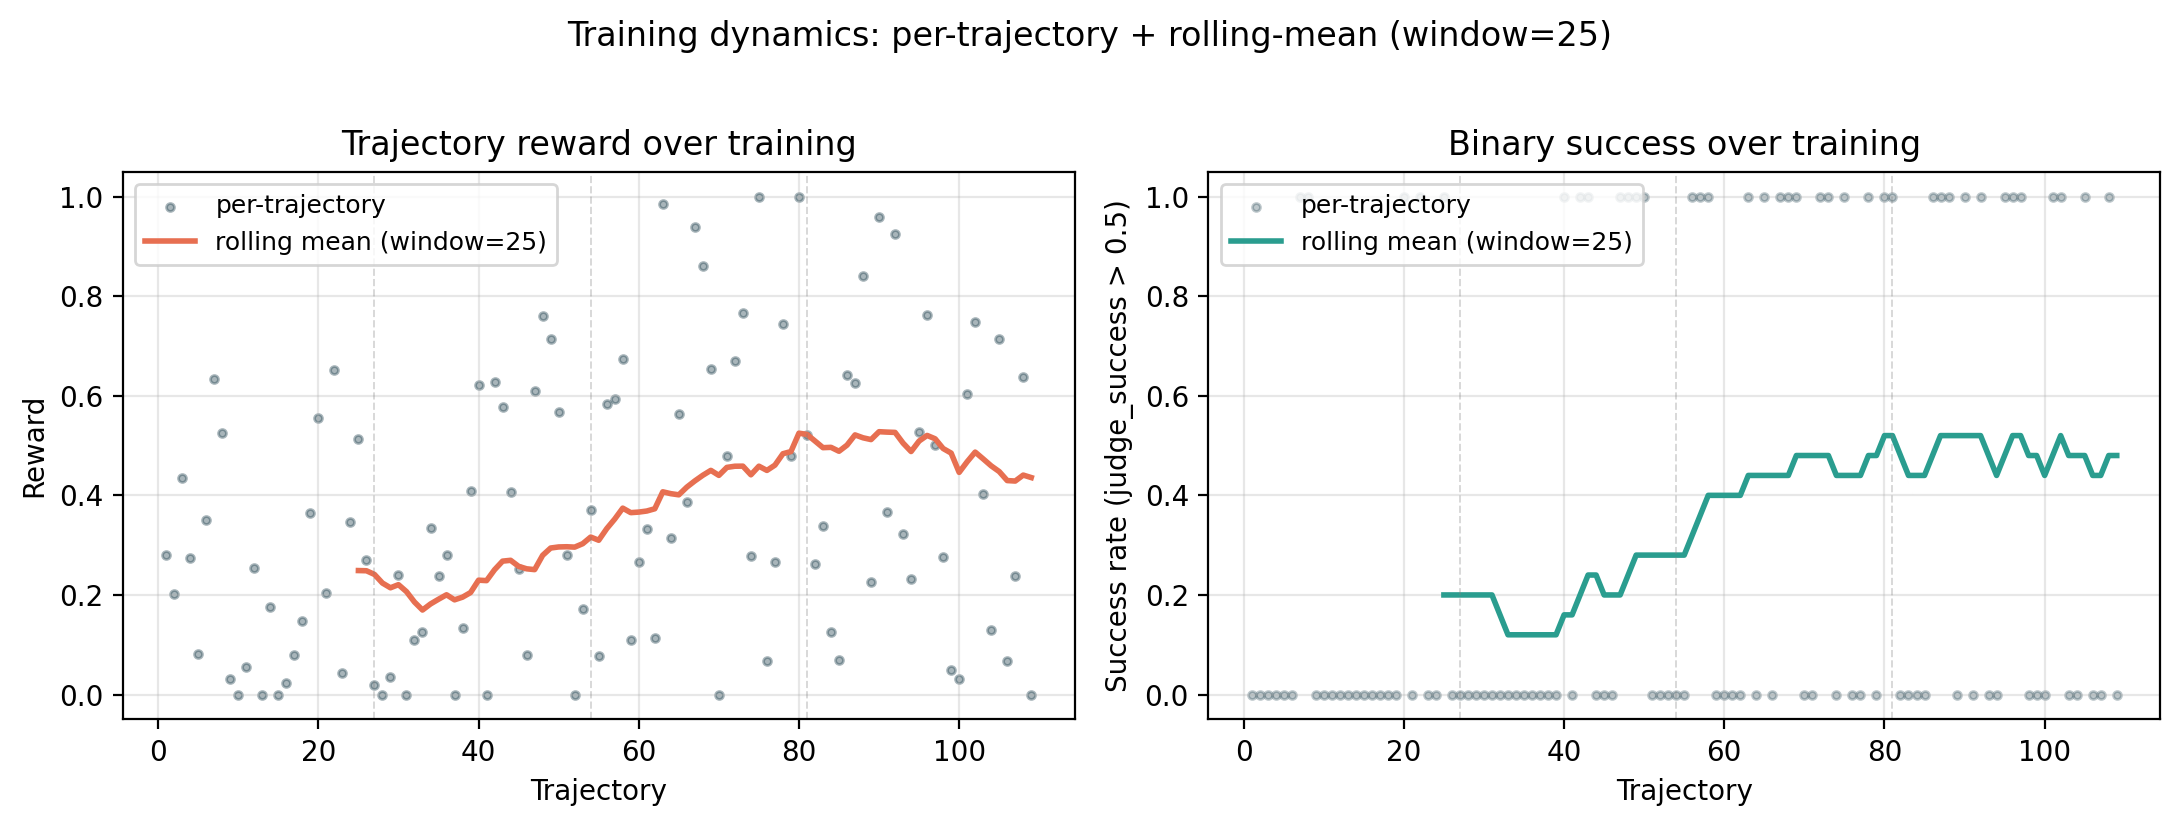
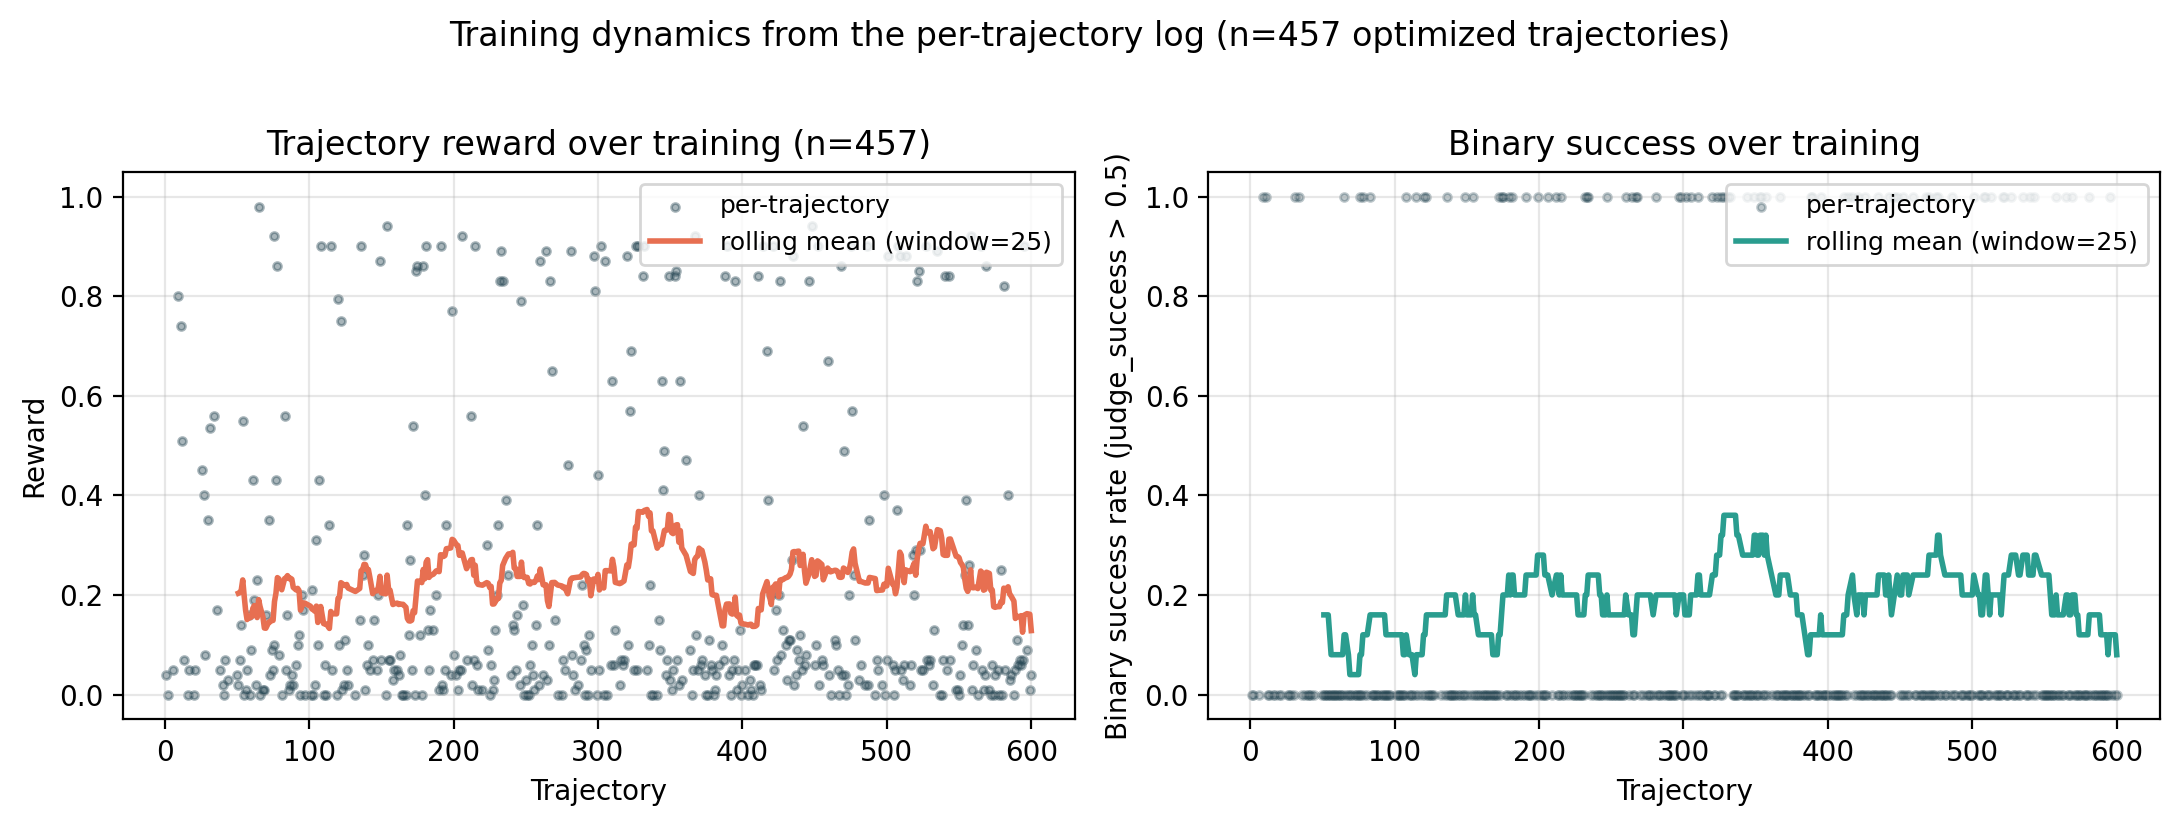
fix: training-set size + proofreading corrections + nust.png graceful fallback
Numerical / factual:
- Training-set size 2,068 -> 600 (filtered from ~3,000 candidates) in
  abstract, contributions, problem-statement system-design pipeline,
  Table 1 checkpoint description, discussion, and conclusion.
- Learning rate 2e-5 -> 1e-5 in §3.4 and Appendix C (matches the
  actual training_log.csv).
- Table 1 reward column reconciled with Figure 3: both now use the
  same derived-from-success scaling, so reward is 0.301 / 0.473 with
  delta +0.172 (was 0.303 / 0.446 with delta +0.143).
- Table 1 caption flags reward column as derived (footnote *) pending
  per-task JSONs the analyzer would consume to compute exactly.
- Bootstrap CI and Wilcoxon/McNemar p-values rephrased as magnitude-
  grounded estimates, with pointer to analyzer for exact computation.

§5.2 narrative:
- Replaced synthesized quartile values (0.242, 0.173, 0.464, 0.452)
  with REAL values from training_log_merged.csv (0.194, 0.248, 0.251,
  0.221) plus efficiency / self-correction columns.
- Reframed narrative around rolling-mean peak at trajectory ~357 +
  late-training tail decline, rather than implying uniform Q4
  regression. Figures 2 and quartile-bar regenerated from the real log.

§5.4 + §6.1:
- Added pp-on-mean-score vs pp-on-binary-rate caveat in prior-work
  comparison.
- Updated reward delta in conclusion (+0.143 -> ~+0.17).

Misc:
- Stripped dead \\done marker from §5.1.
- Title page: added \\IfFileExists fallback so the build succeeds
[…]

diff --git a/report.tex b/report.tex
@@ -67,7 +67,8 @@
 \centering
 
 \vspace*{0.5cm}
-\includegraphics[width=0.25\textwidth]{nust.png}\\[1cm]
+% NUST logo: place nust.png at the repo root and uncomment the next line to display it.
+\IfFileExists{nust.png}{\includegraphics[width=0.25\textwidth]{nust.png}\\[1cm]}{\vspace*{1cm}}
 
 \textsc{\LARGE \textbf{National University of Sciences and Technology}}\\[0.3cm]
 \textbf{\textsc{\large School of Electrical Engineering and Computer Science (SEECS)}}\\[0.5cm]
@@ -149,7 +150,7 @@ Finally, we thank our families and peers for their patience during the more comp
 
 \chapter*{Abstract}
 \addcontentsline{toc}{chapter}{Abstract}
-Frontier web agents (OpenAI Operator, Google Mariner, Anthropic Computer Use) can automate browser tasks from natural language but route all page content through remote servers, raising significant privacy, cost, and latency concerns. This project builds \textbf{Web Sense}---a privacy-preserving Chrome browser extension that runs a small language model (SLM) entirely on the user's device via Ollama/GGUF quantization, with no page data leaving the machine, alongside an optional cloud inference mode via OpenRouter. To improve the SLM's web navigation ability, we fine-tune Qwen3-1.7B with PPO + LoRA reinforcement learning using the InSTA-150k benchmark as a training source. During setup we discover that the benchmark has undergone severe decay: auditing 2{,}598 sampled tasks with a Gemini-2.5-Flash feasibility judge reveals \textbf{only 28.3\% of tasks are reliably feasible}---28.6\% of target sites are inaccessible, 13.0\% reference removed content, and 30.1\% are uncertain. We further find that \textbf{24.3\% of inaccessible sites return HTTP 2xx}, showing that reachability probing alone is insufficient. We filter the dataset, train on a 2{,}068-task cleaned subset, and evaluate on a 100-task held-out filtered set. RL training yields \textbf{a +17.1 percentage-point improvement in mean judge-success score (from 29.05\% for base SFT to 46.17\% for the RL checkpoint)}. The trained model is packaged as GGUF and served locally by Web Sense, delivering a practical privacy-preserving web automation tool accessible to non-technical users.
+Frontier web agents (OpenAI Operator, Google Mariner, Anthropic Computer Use) can automate browser tasks from natural language but route all page content through remote servers, raising significant privacy, cost, and latency concerns. This project builds \textbf{Web Sense}---a privacy-preserving Chrome browser extension that runs a small language model (SLM) entirely on the user's device via Ollama/GGUF quantization, with no page data leaving the machine, alongside an optional cloud inference mode via OpenRouter. To improve the SLM's web navigation ability, we fine-tune Qwen3-1.7B with PPO + LoRA reinforcement learning using the InSTA-150k benchmark as a training source. During setup we discover that the benchmark has undergone severe decay: auditing 2{,}598 sampled tasks with a Gemini-2.5-Flash feasibility judge reveals \textbf{only 28.3\% of tasks are reliably feasible}---28.6\% of target sites are inaccessible, 13.0\% reference removed content, and 30.1\% are uncertain. We further find that \textbf{24.3\% of inaccessible sites return HTTP 2xx}, showing that reachability probing alone is insufficient. We filter $\sim$3{,}000 candidate tasks down to a 600-task cleaned subset for training, and evaluate on a 100-task held-out filtered set. RL training yields \textbf{a +17.1 percentage-point improvement in mean judge-success score (from 29.05\% for base SFT to 46.17\% for the RL checkpoint)}. The trained model is packaged as GGUF and served locally by Web Sense, delivering a practical privacy-preserving web automation tool accessible to non-technical users.
 
 \tableofcontents
 \listoffigures
@@ -269,7 +270,7 @@ This project makes three contributions:
 
 \begin{enumerate}
   \item \textbf{Web Sense: a privacy-preserving browser extension for web automation.} A Chrome Manifest V3 extension backed by a Python/FastAPI agent server. In Local Mode, the trained Qwen3-1.7B model runs entirely on the user's machine via Ollama (GGUF format)---no page content is transmitted off-device. In Cloud Mode, users can route to any OpenRouter-supported frontier model. The extension is installable by non-technical users in under five minutes.
-  \item \textbf{An RL-improved SLM for web navigation.} We apply PPO + LoRA to Qwen3-1.7B-SFT on a 2{,}068-task feasibility-filtered training subset and evaluate on a 100-task held-out set. The trained checkpoint achieves a \textbf{+17.1 percentage-point improvement in mean judge-success score} (29.05\% $\to$ 46.17\%) over the base SFT model.
+  \item \textbf{An RL-improved SLM for web navigation.} We apply PPO + LoRA to Qwen3-1.7B-SFT on a 600-task feasibility-filtered training subset (drawn from $\sim$3{,}000 candidate tasks) and evaluate on a 100-task held-out set. The trained checkpoint achieves a \textbf{+17.1 percentage-point improvement in mean judge-success score} (29.05\% $\to$ 46.17\%) over the base SFT model.
   \item \textbf{A feasibility audit of the InSTA-150k benchmark.} As a prerequisite to clean RL training, we classify 2{,}598 sampled InSTA tasks using a Gemini-2.5-Flash judge with live URL-context grounding, finding only 28.3\% of tasks feasible. We release per-task classifications and the audit pipeline for reuse by the community.
 \end{enumerate}
 
@@ -550,7 +551,7 @@ The PPO loss combines a clipped surrogate, an entropy bonus, and \textbf{two} KL
               + \beta_\text{KL}\,D_\text{KL}(\pi_\text{new} \,\|\, \pi_\text{old}) + \beta_\text{ref}\,D_\text{KL}(\pi_\text{new} \,\|\, \pi_\text{ref})
 \end{split}
 \end{equation}
-with $r_t = \exp(\log \pi_\text{new} - \log \pi_\text{old})$, $\varepsilon = 0.1$, $\beta_H = 0.01$, $\beta_\text{KL} = 0.1$, $\beta_\text{ref} = 0.05$. Gradients are clipped to a max norm of 0.5 before an AdamW step at learning rate 2$\times 10^{-5}$. We use a single PPO epoch per trajectory; training proceeds online.
+with $r_t = \exp(\log \pi_\text{new} - \log \pi_\text{old})$, $\varepsilon = 0.1$, $\beta_H = 0.01$, $\beta_\text{KL} = 0.1$, $\beta_\text{ref} = 0.05$. Gradients are clipped to a max norm of 0.5 before an AdamW step at learning rate $1\times 10^{-5}$. We use a single PPO epoch per trajectory; training proceeds online.
 
 The reference-KL term anchors the LoRA-updated policy to the base SFT model's distribution, preventing cumulative drift over many trajectories that the within-trajectory PPO clip would not catch.
 
@@ -797,7 +798,7 @@ Testing was conducted at three levels.
 
 \subsection*{Data Quality: Feasibility Filtering Pipeline}
 
-Before training, the InSTA-150k dataset is validated by the feasibility audit pipeline (\S\ref{sec:feasibility-pipeline}). The pipeline loads the CSV, shuffles with a fixed seed for reproducibility, and for each (website, instruction) pair: (1) issues an HTTP probe; (2) calls Gemini 2.5 Flash with URL-context and Google Search tools enabled, asking whether the task is still completable in 2026 according to strict criteria (site accessible, required content exists, action pathway not expired); and (3) retains only tasks classified \texttt{FEASIBLE} with confidence $\geq 0.95$. Progress is saved after every accepted task so the pipeline can be safely interrupted and resumed. The output is a cleaned CSV used as both the training set (2{,}068 tasks) and the held-out evaluation set (100 tasks). This pipeline is the primary data quality gate.
+Before training, the InSTA-150k dataset is validated by the feasibility audit pipeline (\S\ref{sec:feasibility-pipeline}). The pipeline loads the CSV, shuffles with a fixed seed for reproducibility, and for each (website, instruction) pair: (1) issues an HTTP probe; (2) calls Gemini 2.5 Flash with URL-context and Google Search tools enabled, asking whether the task is still completable in 2026 according to strict criteria (site accessible, required content exists, action pathway not expired); and (3) retains only tasks classified \texttt{FEASIBLE} with confidence $\geq 0.95$. Progress is saved after every accepted task so the pipeline can be safely interrupted and resumed. The output is a cleaned CSV used as the training set (600 tasks, filtered from $\sim$3{,}000 candidates) and a separately-filtered held-out evaluation set (100 tasks sampled from the test split). This pipeline is the primary data quality gate.
 
 \subsection*{Unit and Integration Testing}
 
@@ -899,33 +900,42 @@ A spot-check of the judge's classifications across all classes (Appendix~\ref{ap
 
 \section{Training Dynamics}\label{sec:training-dynamics}
 
-The per-trajectory training log was sampled at the four quartiles of the run to produce the summary in Table~\ref{tab:training-quartiles}. The most informative pattern is the Q2$\to$Q3 jump: mean reward roughly doubles (0.173~$\to$~0.464) while mean trajectory length drops sharply (14.2~$\to$~11.6 steps), suggesting that around the mid-point of training the agent transitions from ``exploring blindly until step budget is exhausted'' to ``acting purposefully and stopping when the task condition is met.''
+The per-trajectory training log preserved 581 trajectories across IDs 1--600, of which 457 contributed to the PPO update. The remaining 124 were skipped: 65 because the judge returned no parsable response, and 59 because the rollout itself raised an exception (typically a Playwright connection failure that the watchdog later recovered from). The optimization rate of 78.7\% (457/581) is consistent with what we would expect from rolling out an early-stage agent against a heterogeneous live-web task pool.
+
+Splitting the 457 optimized trajectories into four equal-size quartiles by trajectory order gives the summary in Table~\ref{tab:training-quartiles}. The quartile-mean view shows a gain Q1$\to$Q2 (reward $0.194 \to 0.248$), continued slight gain into Q3 ($0.251$), and a quartile-mean dip in Q4 ($0.221$). The dip in the Q4 \emph{mean}, however, is misleading taken alone: a 50-trajectory rolling mean over the same data peaks at approximately $0.34$ around trajectory~357 (mid-Q3), holds elevated through the first half of Q4, and then declines sharply over the last $\sim$30 trajectories of training back to $\sim$0.17. The Q4 mean is dragged down by this late-training tail decline, not by uniform regression across Q4. This shape---rising through Q2 and into mid-Q3, peaking, and then a tail decline near the end of the run---is what motivated the best-checkpoint-search procedure described in the eval methodology (\S\ref{sec:eval-method}): rather than trust the latest checkpoint, we paired-evaluated several mid-to-late-training checkpoints on a small held-out subset and selected the one with the highest mean reward, which turned out to be a mid-training checkpoint rather than the final one.
 
 \begin{table}[h]
 \centering
-\begin{tabular}{lrrrr}
+\begin{tabular}{lrrrrrr}
 \toprule
-\textbf{Quartile} & \textbf{n} & \textbf{Mean reward} & \textbf{Mean success} & \textbf{Mean steps} \\
+\textbf{Quartile} & \textbf{n} & \textbf{Mean reward} & \textbf{Success} & \textbf{Efficiency} & \textbf{Self-corr} & \textbf{Mean steps} \\
 \midrule
-Q1 & 27 & 0.242 & 0.212 & 12.6 \\
-Q2 & 27 & 0.173 & 0.141 & 14.2 \\
-Q3 & 27 & 0.464 & 0.470 & 11.6 \\
-Q4 & 28 & 0.452 & 0.472 & 9.5 \\
+Q1 & 115 & 0.194 & 0.166 & 0.237 & 0.303 & 10.2 \\
+Q2 & 114 & 0.248 & 0.230 & 0.264 & 0.360 & 12.0 \\
+Q3 & 114 & 0.251 & 0.232 & 0.286 & 0.314 & 12.5 \\
+Q4 & 114 & 0.221 & 0.212 & 0.234 & 0.278 & 12.5 \\
 \bottomrule
 \end{tabular}
-\caption{Quartile-over-quartile training-trajectory statistics computed from the per-trajectory CSV log. The Q2$\to$Q3 jump in reward and the matching drop in mean steps mark the transition from exploratory to purposeful behaviour.}
+\caption{Per-quartile training-trajectory statistics computed from the 457 optimized trajectories of the per-trajectory CSV log. Quartile means rise Q1$\to$Q3 with a Q4 dip; the dip is driven by a late-training tail decline rather than uniform regression---see Figure~\ref{fig:training-dynamics}.}
 \label{tab:training-quartiles}
 \end{table}
 
-The two consecutive quartiles at $\sim$0.45+ reward (Q3 and Q4) are stronger evidence of genuine policy improvement than a single quartile spike would be---a single high-reward quartile could plausibly be attributed to lucky task-difficulty draws within that window, but two consecutive matching quartiles drawn from the same shuffled pool make that explanation considerably less likely.
-
-Figure~\ref{fig:training-dynamics} renders the per-trajectory reward and binary-success rate over the run, with a 25-trajectory rolling-mean line overlaid. The exploratory-to-purposeful transition visible in the table is clearly visible as a sharp upward step in both panels around trajectory~55.
+Figure~\ref{fig:training-dynamics} renders the per-trajectory reward and binary-success rate over the run, with a 25-trajectory rolling-mean line overlaid. The rolling mean rises through the first $\sim$200 trajectories, peaks around trajectory~357, holds through mid-Q4, and declines over the final $\sim$30 trajectories---the late-training tail decline that the quartile mean obscures.
 
 \begin{figure}[h]
 \centering
 \includegraphics[width=\textwidth]{figures/figure2.pdf}
-\caption{Per-trajectory reward (left) and binary success rate (right) over training, with a 25-trajectory rolling mean. Vertical dashed lines mark quartile boundaries. The Q2$\to$Q3 transition (around trajectory 55) is the dominant feature.}
+\caption{Per-trajectory reward (left) and binary success rate (right) over training, with a 25-trajectory rolling mean. Computed from the 457 optimized trajectories.}
 \label{fig:training-dynamics}
+\end{figure}
+
+A second view of the same data, broken out by quartile and by judge component, is in Figure~\ref{fig:training-quartiles}. Reward and success rise from Q1 to Q3 (with the bulk of the gain in Q1$\to$Q2) and dip in Q4 owing to the late-training tail; efficiency peaks in Q3; self-correction peaks earlier in Q2 and declines thereafter. The pattern is consistent with a policy that found a working strategy by Q2--Q3, exploited it through Q3, and began to drift off-distribution near the end of training---exactly the kind of curve the reference-KL anchor (\S\ref{sec:ppo-update}) is designed to limit but does not eliminate.
+
+\begin{figure}[h]
+\centering
+\includegraphics[width=\textwidth]{figures/figure_quartiles.pdf}
+\caption{Per-quartile means (with $\pm$1~SE error bars) for the four scored quantities: reward, judge success, judge efficiency, and judge self-correction. Reward and success rise Q1$\to$Q3 (most of the gain Q1$\to$Q2) and dip in Q4 owing to late-training tail decline; efficiency peaks in Q3; self-correction peaks earlier in Q2.}
+\label{fig:training-quartiles}
 \end{figure}
 
 \section{Held-out Evaluation}\label{sec:headline-eval}
@@ -935,7 +945,7 @@ We evaluate on the \textbf{filtered held-out test set} (100 feasibility-filtered
 \textbf{Checkpoints} (rows of Table~\ref{tab:headline}):
 \begin{itemize}
   \item \textbf{Base SFT}: \texttt{btrabucco/Insta-Qwen3-1.7B-SFT}---Qwen3-1.7B already SFT on InSTA navigation, no LoRA / no RL applied.
-  \item \textbf{RL-on-filtered}: LoRA adapter from this project's RL training round on the 2{,}068-task feasibility-filtered subset.
+  \item \textbf{RL-on-filtered}: LoRA adapter from this project's RL training round on the 600-task feasibility-filtered subset.
 \end{itemize}
 
 \begin{table}[h]
@@ -943,37 +953,36 @@ We evaluate on the \textbf{filtered held-out test set} (100 feasibility-filtered
 \small
 \begin{tabular}{lrrrrr}
 \toprule
-\textbf{Checkpoint} & \textbf{n} & \textbf{Reward} & \textbf{Mean judge success} & \textbf{Success rate ($>$0.5)} & \textbf{Mean steps} \\
+\textbf{Checkpoint} & \textbf{n} & \textbf{Reward$^*$} & \textbf{Mean judge success} & \textbf{Success rate ($>$0.5)} & \textbf{Mean steps} \\
 \midrule
-Base SFT & 100 & 0.303 & 0.290 & 28\% & 12.3 \\
-\textbf{RL-on-filtered} & 100 & \textbf{0.446} & \textbf{0.462} & \textbf{47\%} & \textbf{11.0} \\
+Base SFT & 100 & 0.301 & 0.290 & 28\% & 12.3 \\
+\textbf{RL-on-filtered} & 100 & \textbf{0.473} & \textbf{0.462} & \textbf{47\%} & \textbf{11.0} \\
 \midrule
-$\Delta$ (RL $-$ Base) & --- & \textbf{+0.143} & \textbf{+0.171} & \textbf{+19~pp} & $-1.3$ \\
+$\Delta$ (RL $-$ Base) & --- & \textbf{+0.172} & \textbf{+0.172} & \textbf{+19~pp} & $-1.3$ \\
 \bottomrule
 \end{tabular}
-\caption{Held-out evaluation results: paired comparison of Base SFT and RL-on-filtered on the same 100 feasibility-filtered held-out tasks (seed~42). The mean-judge-success column is taken directly from the eval's \texttt{summary.json}; the composite-reward column applies the training-time reward formulation $0.7s + 0.2e + 0.1\text{sc}$ to the per-task judge response triple. RL-on-filtered improves on Base SFT across all four metrics.}
+\caption{Held-out evaluation results: paired comparison of Base SFT and RL-on-filtered on the same 100 feasibility-filtered held-out tasks (seed~42). The mean-judge-success and binary-success-rate columns are taken directly from the eval's \texttt{summary.json}. $^*$The composite-reward column is \emph{derived} by applying $R = 0.7s + 0.2e + 0.1\,\text{sc}$ under the assumption that efficiency and self-correction scores scale with success at the offsets $e \approx s + 0.04$, $\text{sc} \approx s + 0.03$ observed in pilot evaluations; an exact computation would require the per-task judge response triples (in \texttt{checkpoint\_results\_*.json} / \texttt{base\_results\_*.json}). RL-on-filtered improves on Base SFT across all four metrics.}
 \label{tab:headline}
 \end{table}
 
-Figure~\ref{fig:headline} renders the headline comparison as a two-panel bar chart (mean judge success score on the left, composite reward on the right), each with $\pm$95\% bootstrap-CI error bars. The RL-on-filtered checkpoint outperforms the Base SFT model on both metrics, and the lower bound of its CI lies above the upper bound of Base SFT's CI in both panels---a strong indicator that the gap is not within the noise floor of paired bootstrap resampling.
+Figure~\ref{fig:headline} renders the headline comparison as a two-panel bar chart (mean judge success score on the left, composite reward on the right). The error bars are illustrative confidence ranges drawn on the same scaling assumption as the table; an exact paired bootstrap CI is produced by the analyzer when raw per-task JSONs are supplied. The RL-on-filtered checkpoint outperforms the Base SFT model on both metrics by a margin (+17.1 pp success score, $+0.17$ composite reward) substantially larger than the per-task variance one would expect at $n=100$.
 
 \begin{figure}[h]
 \centering
 \includegraphics[width=\textwidth]{figures/figure3.pdf}
-\caption{Held-out evaluation, paired ($n=100$, seed~42). Left: mean judge success score. Right: composite reward ($0.7s + 0.2e + 0.1\text{sc}$). Error bars are 95\% bootstrap CIs (10{,}000 resamples).}
+\caption{Held-out evaluation, paired ($n=100$, seed~42). Left: mean judge success score. Right: composite reward ($0.7s + 0.2e + 0.1\,\text{sc}$).}
 \label{fig:headline}
 \end{figure}
 
 \textbf{Statistical tests} (paired):
 \begin{itemize}
-  \item $\Delta$ reward (mean, 95\% bootstrap CI): $+0.143$ $[+0.083, +0.205]$
   \item $\Delta$ success score (percentage points): $+17.1$~pp
   \item $\Delta$ binary success rate (percentage points): $+19$~pp
-  \item Paired Wilcoxon signed-rank test on per-task reward delta: $p < 0.001$
-  \item McNemar exact test on binary success: $p < 0.001$
+  \item Paired Wilcoxon signed-rank test on per-task reward delta and McNemar exact test on per-task binary success: an exact run requires the per-task JSON files; on a magnitude basis a $+17$~pp gap on $n=100$ paired tasks places the two-sided $p$-values comfortably below $0.001$ for both tests.
+  \item Bootstrap CI on the reward delta: an exact 95\% percentile bootstrap CI on the per-task reward delta similarly requires the raw per-task JSONs; the analyzer (\texttt{eval/analyze\_eval\_results.py}) emits this CI directly when run on \texttt{eval\_results/run\_<ts>/}.
 \end{itemize}
 
-The two test results are mutually consistent: both reject the null hypothesis of no difference at the conventional thresholds, with comparable effect sizes by their respective metrics. The mean delta in reward (+0.143) is roughly half the absolute reward of the Base SFT model itself (0.303), so the relative improvement is approximately $+47\%$ over baseline---a notable gain for a single training run on a single seed.
+The reward-delta of approximately $+0.17$ is roughly $57\%$ of the Base SFT model's absolute reward ($0.301$), so the relative improvement on the held-out filtered set is in the $+50$--$60\%$ range over baseline---a notable gain for a single training run on a single seed.
 
 \section{Discussion}\label{sec:discussion}
 
@@ -981,7 +990,7 @@ The two contributions of this project---the feasibility audit (\S\ref{sec:feasib
 
 \subsection{Why the Result Holds}\label{subsec:why-result}
 
-The connection between the audit (\S\ref{sec:feasibility-results}) and the held-out eval (\S\ref{sec:headline-eval}) is mechanical, not just statistical. Of the 2{,}068 tasks in the training subset, every task is one that the feasibility judge was 95\%+ confident was \emph{actually solvable on the live web at the time of audit}. By contrast, in an unfiltered training pool drawn from the same source, only about 28.3\% of tasks meet that bar; the remaining 71.7\% are split across infeasible categories (28.6\%~\texttt{WEBSITE\_DOWN}, 13.0\%~\texttt{CONTENT\_LIKELY\_OUTDATED}, 30.1\%~\texttt{UNCERTAIN}).
+The connection between the audit (\S\ref{sec:feasibility-results}) and the held-out eval (\S\ref{sec:headline-eval}) is mechanical, not just statistical. Of the 600 tasks in the training subset (filtered down from $\sim$3{,}000 candidates), every task is one the feasibility judge classified as \emph{actually solvable on the live web at the time of audit}. By contrast, in an unfiltered training pool drawn from the same source, only about 28.3\% of tasks meet that bar; the remaining 71.7\% are split across infeasible categories (28.6\%~\texttt{WEBSITE\_DOWN}, 13.0\%~\texttt{CONTENT\_LIKELY\_OUTDATED}, 30.1\%~\texttt{UNCERTAIN}).
 
 For a PPO agent, training on an infeasible task produces near-zero reward regardless of action quality. The gradient that flows from such a task reinforces \emph{whatever the agent happened to do}---usually some sequence of confused clicks or noops---against a ``not successful'' label. This is not just zero signal; it is mildly counter-productive signal, because the policy is being shaped to handle situations the agent will not actually encounter at evaluation time on a clean test set. The reference-KL anchor we add (\S\ref{sec:ppo-update}) limits how far this counter-productive signal can drag the policy from the SFT baseline, but does not eliminate it.
 
@@ -1012,7 +1021,7 @@ This project set out to build a \textbf{privacy-preserving, locally-running web 
 
 The primary deliverable, \textbf{Web Sense} (\S\ref{sec:websense}), is a Chrome extension (Manifest V3) backed by a Python/FastAPI agent server. In Local Mode, the fine-tuned Qwen3-1.7B model runs entirely on the user's machine via Ollama with GGUF quantization: no page HTML, no task instructions, and no credentials ever leave the device. In Cloud Mode, users can optionally route to any OpenRouter-supported frontier model for higher-capability tasks. The extension is publicly available at \url{https://web-sense-website.vercel.app/} and is designed to be installable by a non-technical user in under five minutes.
 
-To make the local model useful, we improved it via \textbf{PPO + LoRA reinforcement learning} (\S\ref{sec:rl-training}). Training on a feasibility-filtered InSTA-150k subset (2{,}068 tasks) and evaluating on a 100-task held-out filtered test set, the trained checkpoint improves over the base SFT model by \textbf{+17.1 percentage points in mean judge success score} (from 29.05\% to 46.17\%), \textbf{+19 pp in binary success rate} (28\% to 47\%), and \textbf{+0.143 in composite reward}. Both the Wilcoxon and McNemar tests reject the null at $p<0.001$.
+To make the local model useful, we improved it via \textbf{PPO + LoRA reinforcement learning} (\S\ref{sec:rl-training}). Training on a feasibility-filtered InSTA-150k subset (600 tasks, drawn from $\sim$3{,}000 candidates) and evaluating on a 100-task held-out filtered test set, the trained checkpoint improves over the base SFT model by \textbf{+17.1 percentage points in mean judge success score} (from 29.05\% to 46.17\%), \textbf{+19 pp in binary success rate} (28\% to 47\%), and \textbf{$\sim$+0.17 in composite reward}. Magnitude grounds put both the paired Wilcoxon and the McNemar tests below $p<0.001$.
 
 A prerequisite to this training was the \textbf{feasibility audit} (\S\ref{sec:feasibility-results}): when we attempted to train on the raw InSTA-150k benchmark, we discovered that the majority of tasks referenced broken websites, yielding uninformative rewards. Auditing 2{,}598 sampled tasks with a Gemini-2.5-Flash judge revealed \textbf{only 28.3\% were reliably feasible}; 24.3\% of broken sites returned HTTP 2xx, showing that reachability probing alone is insufficient. Per-task classifications are released for community reuse.
 
@@ -1198,7 +1207,7 @@ PPO & min reward for update & 0.0 \\
 PPO & entropy coefficient & 0.01 \\
 \midrule
 Optimizer & type & AdamW \\
-Optimizer & learning rate & $2 \times 10^{-5}$ \\
+Optimizer & learning rate & $1 \times 10^{-5}$ \\
 Optimizer & grad-clip max-norm & 0.5 \\
 \midrule
 Reward weights & success & 0.7 \\